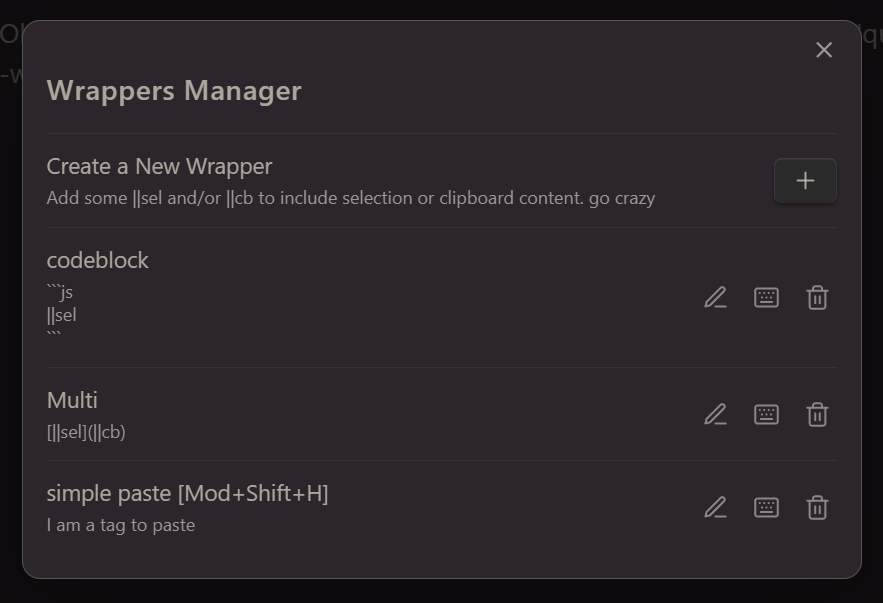
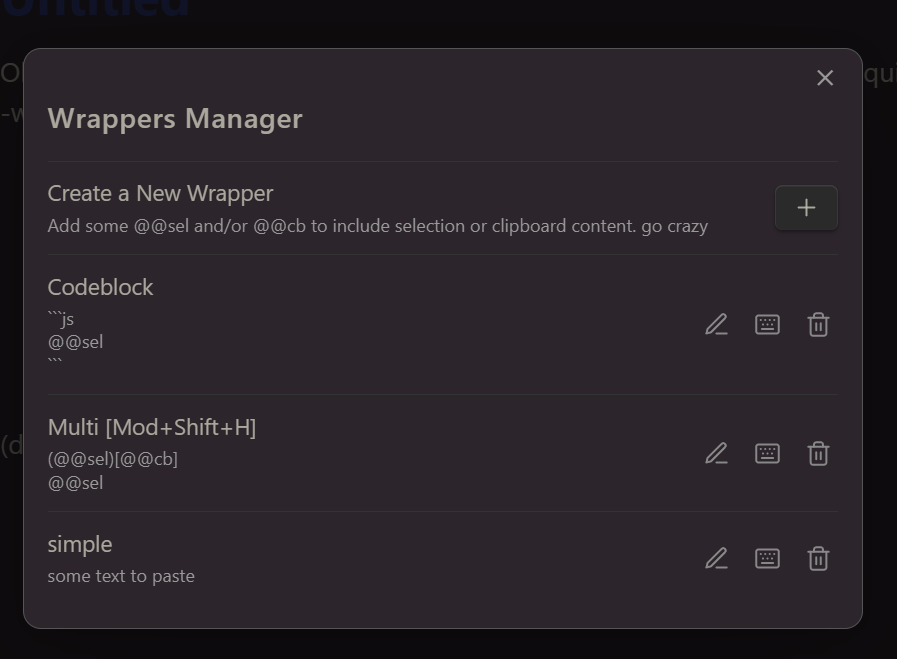
Correction bug marker and new marker with @@

diff --git a/src/main.ts b/src/main.ts
@@ -75,14 +75,14 @@ export default class QWPlugin extends Plugin {
 	}
 
 	async addTag(editor: Editor, tag: string, selection: string) {
-		let replacedTag = tag.replace(/\||sel/g, selection);
-		replacedTag = replacedTag.replace(/\||cb/g, await navigator.clipboard.readText());
+		let replacedTag = tag.replace(/\@\@sel/g, selection);
+		replacedTag = replacedTag.replace(/\@\@cb/g, await navigator.clipboard.readText());
 		this.length = replacedTag.length;
 		editor.replaceSelection(replacedTag);
 	}
 
 	toggleTag(editor: Editor, tag: string, selection: string) {
-		if (!this.getMarkers(tag).length) {
+		if (!this.getMarkers(tag)?.length) {
 			if (selection === tag) {
 				editor.replaceSelection("")
 			} else {
@@ -99,15 +99,15 @@ export default class QWPlugin extends Plugin {
 	}
 
 	getMarkers(tag: string) {
-		const markers = tag.match(/\||sel|\||cb/g) || [];
+		const markers = tag.match(/\@\@sel|\@\@cb/g) || [];
 		return markers;
 	}
 
 	getMatchedTag(tag: string, selection: string) {
-		if (tag.includes('||sel')) {
+		if (tag.includes('@@sel')) {
 			const escapedTag = tag.replace(/[-\/\\^$*+?.()|[\]{}]/g, '\\$&');
 
-			let taggedTag = escapedTag.replace(/||sel/g, '(.*)').replace(/||cb/g, '.*');
+			let taggedTag = escapedTag.replace(/@@sel/g, '(.*)').replace(/@@cb/g, '.*');
 
 			const regex = new RegExp(taggedTag);
 			return selection.match(regex);
@@ -115,7 +115,7 @@ export default class QWPlugin extends Plugin {
 	}
 
 	removeTag(editor: Editor, tag: string, selection: string) {
-		if (tag.includes('||sel')) {
+		if (tag.includes('@@sel')) {
 			const match = this.getMatchedTag(tag, selection);
 			if (match && match[1]) {
 				this.length = match[1].length

diff --git a/src/creator-modal.ts b/src/creator-modal.ts
@@ -45,7 +45,7 @@ export default class wrapperModal extends Modal {
 
         new Setting(el)
             .setName('Set Tag')
-            .setDesc("Enter ||sel (selection) or ||cb (clipboard) surrounded by the tag. mixed markers and mutilines ok")
+            .setDesc("Enter @@sel (selection) or @@cb (clipboard) surrounded by the tag. mixed markers and mutilines ok")
             .addTextArea((ta) => {
                 ta.setValue(this.wrapper!.tagInput)
                     .onChange(value => {

diff --git a/src/wrappers-manager.ts b/src/wrappers-manager.ts
@@ -20,7 +20,7 @@ export class WrappersManager extends Modal {
 
         new Setting(contentEl)
             .setName("Create a New Wrapper")
-            .setDesc("Add some ||sel and/or ||cb to include selection or clipboard content. go crazy")
+            .setDesc("Add some @@sel and/or @@cb to include selection or clipboard content. go crazy")
             .addButton(cb => {
                 cb.setIcon("plus")
                     .onClick(() => {

diff --git a/src/settings.ts b/src/settings.ts
@@ -18,7 +18,7 @@ export class QWSettingTab extends PluginSettingTab {
 
 		new Setting(containerEl)
 			.setName("Create a New Wrapper")
-			.setDesc("Add some ||sel and/or ||cb to include selection or clipboard content. go crazy")
+			.setDesc("Add some @@sel and/or @@cb to include selection or clipboard content. go crazy")
 			.addButton(cb => {
 				cb.setIcon("plus")
 					.onClick(() => {

diff --git a/README.md b/README.md
@@ -2,14 +2,14 @@
 
 this plugin is highly inspired by "wrap with shortcuts". However, the author was not responsive to pull requests.
 
-Create some wrappers to surround your selection or even clipboard content using some markers ||sel or ||cb.   
+Create some wrappers to surround your selection or even clipboard content using some markers @@sel or @@cb.   
 You can add several markers and mix them, on several lines.   
 You can then reverse the operation.  
 ADD A DEMO
 
 Quickly create advanced wrappers from **Wrapper Manager** 
 ![wm](./assets/Wrapper_Manager.png)
-or from **settings**
+or from **Settings**
 ![wm](./assets/settings.png)
 
 Add shortcut to each wrapper or call them from the **Wrapper Selector** you can spare a lot of shortcuts...
@@ -17,8 +17,8 @@ Add shortcut to each wrapper or call them from the **Wrapper Selector** you can 
 
 e.g:
 ```
-[||sel](||cb)
-||cb
+[@@sel](@@cb)
+@@cb
 ```
 
 
